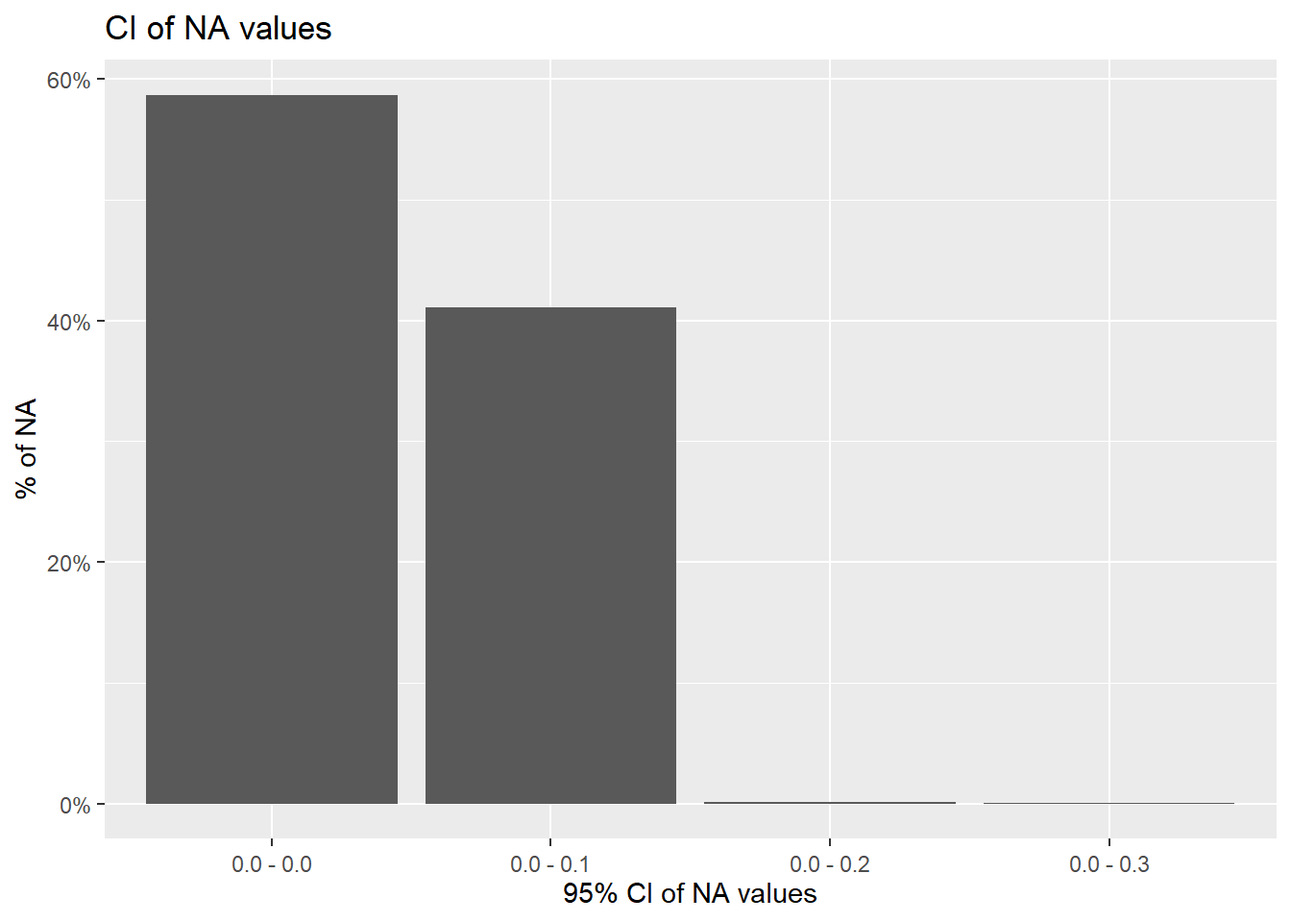
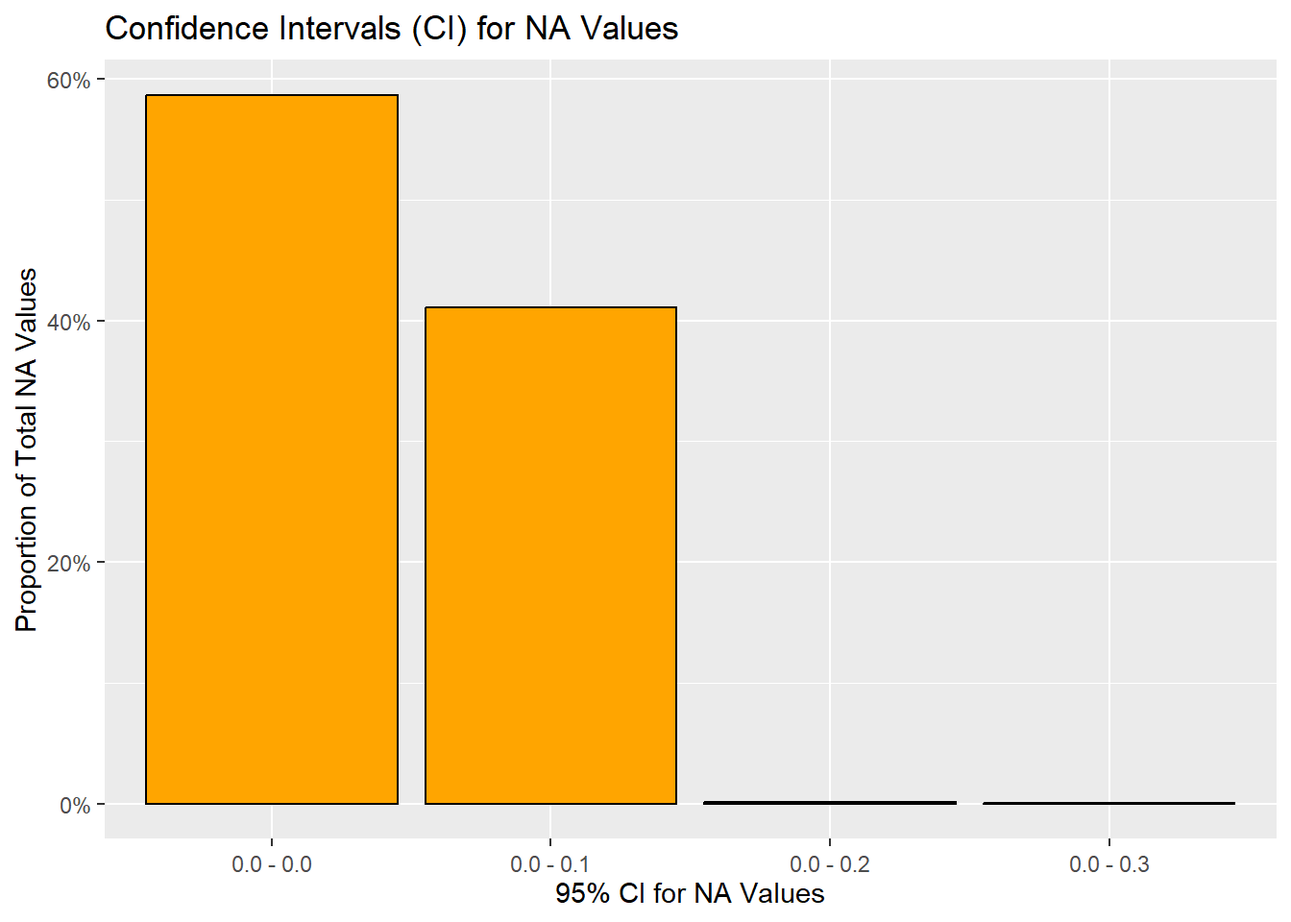
a

diff --git a/docs/data.html b/docs/data.html
@@ -191,8 +191,6 @@ pre > code.sourceCode > span > a:first-child::before { text-decoration: underlin
   <ul class="collapse">
   <li><a href="#explain-in-detail-how-your-data-will-enable-you-to-answer-your-research-questions-from-the-introduction." id="toc-explain-in-detail-how-your-data-will-enable-you-to-answer-your-research-questions-from-the-introduction." class="nav-link" data-scroll-target="#explain-in-detail-how-your-data-will-enable-you-to-answer-your-research-questions-from-the-introduction."><span class="header-section-number">2.2.1</span> Explain in detail how your data will enable you to answer your research questions from the introduction.</a></li>
   <li><a href="#approach" id="toc-approach" class="nav-link" data-scroll-target="#approach"><span class="header-section-number">2.2.2</span> Approach:</a></li>
-  <li><a href="#import-libraries" id="toc-import-libraries" class="nav-link" data-scroll-target="#import-libraries"><span class="header-section-number">2.2.3</span> Import Libraries</a></li>
-  <li><a href="#import-dataset" id="toc-import-dataset" class="nav-link" data-scroll-target="#import-dataset"><span class="header-section-number">2.2.4</span> Import dataset</a></li>
   </ul></li>
   <li><a href="#missing-value-analysis" id="toc-missing-value-analysis" class="nav-link" data-scroll-target="#missing-value-analysis"><span class="header-section-number">2.3</span> 2.3 Missing value analysis</a>
   <ul class="collapse">
@@ -300,17 +298,17 @@ pre > code.sourceCode > span > a:first-child::before { text-decoration: underlin
 <section id="approach" class="level3" data-number="2.2.2">
 <h3 data-number="2.2.2" class="anchored" data-anchor-id="approach"><span class="header-section-number">2.2.2</span> Approach:</h3>
 <p>Our analysis approach can be broken down into the following key activities:</p>
-<p>####Part 1: Study which segments of the population exhibited greatest covid vaccine hesitancy following the deployment of mass vaccinations in the US in early 2021.</p>
+<section id="part-1-study-which-segments-of-the-population-exhibited-greatest-covid-vaccine-hesitancy-following-the-deployment-of-mass-vaccinations-in-the-us-in-early-2021." class="level4" data-number="2.2.2.1">
+<h4 data-number="2.2.2.1" class="anchored" data-anchor-id="part-1-study-which-segments-of-the-population-exhibited-greatest-covid-vaccine-hesitancy-following-the-deployment-of-mass-vaccinations-in-the-us-in-early-2021."><span class="header-section-number">2.2.2.1</span> Part 1: Study which segments of the population exhibited greatest covid vaccine hesitancy following the deployment of mass vaccinations in the US in early 2021.</h4>
 <p>This process will consist of the following steps:</p>
 <ul>
 <li><p>Writing R-code to auto rank every possible segment’s hesitance by statistical significance (i.e.&nbsp;using p-values and test-statistics from Chi-sq tests) at a point in time specified below.</p></li>
 <li><p>Building visuals of the 10 segments with the strongest association to vaccine hesitance to draw additional insights. For this step, we are considering using the following graph types: (x / indpt vars are cat: y / dep vars are numerical (% or n stating “Probably or definitely will not get vaccinated”) o Bars / stacked bars o Mosaic plots o Spatial heatmaps</p></li>
-<li><p>The snapshot in time we will be using to measure associations will comprise the first three monthly periods of data available, where the average proportion of responses corresponding to vaccine hesitance was ~18%. To combine the three monthly periods, we will create a weighted average of the survey responses.</p></li>
+<li><p>The snapshot in time we will be using to measure associations will comprise of the first three monthly periods of data available, where the average proportion of responses corresponding to vaccine hesitance was ~18%. To combine the three monthly periods, we will create a weighted average of the survey responses. For instance, if vaccine hesitance rates for a particular group were 20 out 100 (20%) in month 1, 20/150 (13%) in month 2, and 10/90 (11%) in month 3, the weighted average hesitance rate for that group would be 50/340 (14.7%).</p></li>
 </ul>
-<p>We will visualize the hesitance graph over time to illustrate the rationale behind selecting the first three monthly periods of data due to its stability.</p>
-</section>
-<section id="import-libraries" class="level3" data-number="2.2.3">
-<h3 data-number="2.2.3" class="anchored" data-anchor-id="import-libraries"><span class="header-section-number">2.2.3</span> Import Libraries</h3>
+<p>The rationale for choosing the first three monthly periods of data is due to the prevalence and relative stability of hesitance during that time frame. Below, we will visualize vaccine hesitance over time to illustrate this.</p>
+<section id="import-libraries" class="level5" data-number="2.2.2.1.1">
+<h5 data-number="2.2.2.1.1" class="anchored" data-anchor-id="import-libraries"><span class="header-section-number">2.2.2.1.1</span> Import Libraries</h5>
 <div class="cell">
 <details>
 <summary>Code</summary>
@@ -321,50 +319,63 @@ pre > code.sourceCode > span > a:first-child::before { text-decoration: underlin
 </details>
 </div>
 </section>
-<section id="import-dataset" class="level3" data-number="2.2.4">
-<h3 data-number="2.2.4" class="anchored" data-anchor-id="import-dataset"><span class="header-section-number">2.2.4</span> Import dataset</h3>
+<section id="import-dataset" class="level5" data-number="2.2.2.1.2">
+<h5 data-number="2.2.2.1.2" class="anchored" data-anchor-id="import-dataset"><span class="header-section-number">2.2.2.1.2</span> Import dataset</h5>
 <div class="cell">
 <details>
 <summary>Code</summary>
-<div class="sourceCode cell-code" id="cb2"><pre class="sourceCode r code-with-copy"><code class="sourceCode r"><span id="cb2-1"><a href="#cb2-1" aria-hidden="true" tabindex="-1"></a>covid <span class="ot">&lt;-</span> <span class="fu">fread</span>(<span class="st">"../covid_dataset/covid.csv"</span>)</span></code><button title="Copy to Clipboard" class="code-copy-button"><i class="bi"></i></button></pre></div>
+<div class="sourceCode cell-code" id="cb2"><pre class="sourceCode r code-with-copy"><code class="sourceCode r"><span id="cb2-1"><a href="#cb2-1" aria-hidden="true" tabindex="-1"></a><span class="co"># Load dataset</span></span>
+<span id="cb2-2"><a href="#cb2-2" aria-hidden="true" tabindex="-1"></a>covid <span class="ot">&lt;-</span> <span class="fu">fread</span>(<span class="st">"../covid_dataset/covid.csv"</span>)</span></code><button title="Copy to Clipboard" class="code-copy-button"><i class="bi"></i></button></pre></div>
 </details>
 </div>
+</section>
+<section id="plot-vaccine-hesitance-over-time" class="level5" data-number="2.2.2.1.3">
+<h5 data-number="2.2.2.1.3" class="anchored" data-anchor-id="plot-vaccine-hesitance-over-time"><span class="header-section-number">2.2.2.1.3</span> Plot vaccine hesitance over time</h5>
 <div class="cell">
 <details>
 <summary>Code</summary>
-<div class="sourceCode cell-code" id="cb3"><pre class="sourceCode r code-with-copy"><code class="sourceCode r"><span id="cb3-1"><a href="#cb3-1" aria-hidden="true" tabindex="-1"></a>vacc_intention_time <span class="ot">&lt;-</span> covid <span class="sc">|&gt;</span></span>
-<span id="cb3-2"><a href="#cb3-2" aria-hidden="true" tabindex="-1"></a>  <span class="fu">filter</span>(<span class="st">`</span><span class="at">Indicator Name</span><span class="st">`</span> <span class="sc">==</span> <span class="st">'Vaccination uptake and intention'</span>) <span class="sc">|&gt;</span></span>
-<span id="cb3-3"><a href="#cb3-3" aria-hidden="true" tabindex="-1"></a>  <span class="fu">filter</span>(<span class="st">`</span><span class="at">Indicator Category</span><span class="st">`</span> <span class="sc">==</span> <span class="st">'Probably or definitely will not get vaccinated'</span>) <span class="sc">|&gt;</span></span>
-<span id="cb3-4"><a href="#cb3-4" aria-hidden="true" tabindex="-1"></a>  <span class="fu">filter</span>(<span class="st">`</span><span class="at">Group Name</span><span class="st">`</span> <span class="sc">==</span> <span class="st">'All adults 18+'</span>) <span class="sc">|&gt;</span></span>
-<span id="cb3-5"><a href="#cb3-5" aria-hidden="true" tabindex="-1"></a>  <span class="fu">filter</span>(<span class="st">`</span><span class="at">Time Type</span><span class="st">`</span> <span class="sc">==</span> <span class="st">'Monthly'</span>) <span class="sc">|&gt;</span></span>
-<span id="cb3-6"><a href="#cb3-6" aria-hidden="true" tabindex="-1"></a>  <span class="fu">filter</span>(Geography <span class="sc">==</span> <span class="st">'National'</span>) <span class="sc">|&gt;</span></span>
-<span id="cb3-7"><a href="#cb3-7" aria-hidden="true" tabindex="-1"></a>  <span class="fu">arrange</span>(<span class="st">`</span><span class="at">Geography Type</span><span class="st">`</span>, Geography, <span class="st">`</span><span class="at">Time Period</span><span class="st">`</span>)</span>
-<span id="cb3-8"><a href="#cb3-8" aria-hidden="true" tabindex="-1"></a></span>
-<span id="cb3-9"><a href="#cb3-9" aria-hidden="true" tabindex="-1"></a></span>
-<span id="cb3-10"><a href="#cb3-10" aria-hidden="true" tabindex="-1"></a>vacc_intention_time <span class="ot">&lt;-</span> vacc_intention_time <span class="sc">|&gt;</span></span>
-<span id="cb3-11"><a href="#cb3-11" aria-hidden="true" tabindex="-1"></a>  <span class="fu">mutate</span>(<span class="at">month_split =</span> <span class="fu">paste0</span>(<span class="fu">str_split</span>(<span class="st">`</span><span class="at">Time Period</span><span class="st">`</span>, <span class="st">"-"</span>,</span>
-<span id="cb3-12"><a href="#cb3-12" aria-hidden="true" tabindex="-1"></a>                                        <span class="at">simplify =</span> <span class="cn">TRUE</span>)[, <span class="dv">2</span>],</span>
-<span id="cb3-13"><a href="#cb3-13" aria-hidden="true" tabindex="-1"></a>         <span class="st">", "</span>, Year))</span>
-<span id="cb3-14"><a href="#cb3-14" aria-hidden="true" tabindex="-1"></a></span>
-<span id="cb3-15"><a href="#cb3-15" aria-hidden="true" tabindex="-1"></a>vacc_intention_time <span class="ot">&lt;-</span> vacc_intention_time <span class="sc">|&gt;</span></span>
-<span id="cb3-16"><a href="#cb3-16" aria-hidden="true" tabindex="-1"></a>  <span class="fu">mutate</span>(<span class="at">month =</span> <span class="fu">mdy</span>(month_split))</span>
-<span id="cb3-17"><a href="#cb3-17" aria-hidden="true" tabindex="-1"></a></span>
-<span id="cb3-18"><a href="#cb3-18" aria-hidden="true" tabindex="-1"></a></span>
-<span id="cb3-19"><a href="#cb3-19" aria-hidden="true" tabindex="-1"></a><span class="fu">ggplot</span>(vacc_intention_time, <span class="fu">aes</span>(<span class="at">x =</span> month, <span class="at">y =</span> <span class="st">`</span><span class="at">Estimate (%)</span><span class="st">`</span>,</span>
-<span id="cb3-20"><a href="#cb3-20" aria-hidden="true" tabindex="-1"></a>                                <span class="at">color =</span> <span class="st">`</span><span class="at">Indicator Category</span><span class="st">`</span>)) <span class="sc">+</span></span>
-<span id="cb3-21"><a href="#cb3-21" aria-hidden="true" tabindex="-1"></a>  <span class="fu">geom_line</span>() <span class="sc">+</span></span>
-<span id="cb3-22"><a href="#cb3-22" aria-hidden="true" tabindex="-1"></a>  <span class="fu">labs</span>(<span class="at">title =</span> <span class="st">"U.S. Vaccination Response Rates Over Time"</span>,</span>
-<span id="cb3-23"><a href="#cb3-23" aria-hidden="true" tabindex="-1"></a>       <span class="at">x =</span> <span class="st">"Month"</span>,</span>
-<span id="cb3-24"><a href="#cb3-24" aria-hidden="true" tabindex="-1"></a>       <span class="at">y =</span> <span class="st">"Response Rate (%)"</span>) <span class="sc">+</span></span>
-<span id="cb3-25"><a href="#cb3-25" aria-hidden="true" tabindex="-1"></a>  <span class="fu">theme</span>(<span class="at">legend.position =</span> <span class="st">"bottom"</span>) <span class="sc">+</span></span>
-<span id="cb3-26"><a href="#cb3-26" aria-hidden="true" tabindex="-1"></a>  <span class="fu">guides</span>(<span class="at">color =</span> <span class="fu">guide_legend</span>(<span class="at">title =</span> <span class="st">"Indicator Category:"</span>))</span></code><button title="Copy to Clipboard" class="code-copy-button"><i class="bi"></i></button></pre></div>
+<div class="sourceCode cell-code" id="cb3"><pre class="sourceCode r code-with-copy"><code class="sourceCode r"><span id="cb3-1"><a href="#cb3-1" aria-hidden="true" tabindex="-1"></a><span class="co"># Filter for the vaccination uptake and intent indicator</span></span>
+<span id="cb3-2"><a href="#cb3-2" aria-hidden="true" tabindex="-1"></a><span class="co"># Filter for responses corresponding to vaccine hesitancy</span></span>
+<span id="cb3-3"><a href="#cb3-3" aria-hidden="true" tabindex="-1"></a><span class="co"># Include all adults 18+</span></span>
+<span id="cb3-4"><a href="#cb3-4" aria-hidden="true" tabindex="-1"></a><span class="co"># Set time period to monthly (excluding weekly samples) and filter for nationwide samples</span></span>
+<span id="cb3-5"><a href="#cb3-5" aria-hidden="true" tabindex="-1"></a>vacc_intention_time <span class="ot">&lt;-</span> covid <span class="sc">|&gt;</span></span>
+<span id="cb3-6"><a href="#cb3-6" aria-hidden="true" tabindex="-1"></a>  <span class="fu">filter</span>(<span class="st">`</span><span class="at">Indicator Name</span><span class="st">`</span> <span class="sc">==</span> <span class="st">'Vaccination uptake and intention'</span>) <span class="sc">|&gt;</span></span>
+<span id="cb3-7"><a href="#cb3-7" aria-hidden="true" tabindex="-1"></a>  <span class="fu">filter</span>(<span class="st">`</span><span class="at">Indicator Category</span><span class="st">`</span> <span class="sc">==</span> <span class="st">'Probably or definitely will not get vaccinated'</span>) <span class="sc">|&gt;</span></span>
+<span id="cb3-8"><a href="#cb3-8" aria-hidden="true" tabindex="-1"></a>  <span class="fu">filter</span>(<span class="st">`</span><span class="at">Group Name</span><span class="st">`</span> <span class="sc">==</span> <span class="st">'All adults 18+'</span>) <span class="sc">|&gt;</span></span>
+<span id="cb3-9"><a href="#cb3-9" aria-hidden="true" tabindex="-1"></a>  <span class="fu">filter</span>(<span class="st">`</span><span class="at">Time Type</span><span class="st">`</span> <span class="sc">==</span> <span class="st">'Monthly'</span>) <span class="sc">|&gt;</span></span>
+<span id="cb3-10"><a href="#cb3-10" aria-hidden="true" tabindex="-1"></a>  <span class="fu">filter</span>(Geography <span class="sc">==</span> <span class="st">'National'</span>) <span class="sc">|&gt;</span></span>
+<span id="cb3-11"><a href="#cb3-11" aria-hidden="true" tabindex="-1"></a>  <span class="fu">arrange</span>(<span class="st">`</span><span class="at">Geography Type</span><span class="st">`</span>, Geography, <span class="st">`</span><span class="at">Time Period</span><span class="st">`</span>)</span>
+<span id="cb3-12"><a href="#cb3-12" aria-hidden="true" tabindex="-1"></a></span>
+<span id="cb3-13"><a href="#cb3-13" aria-hidden="true" tabindex="-1"></a><span class="co"># Derive month of data collection</span></span>
+<span id="cb3-14"><a href="#cb3-14" aria-hidden="true" tabindex="-1"></a>vacc_intention_time <span class="ot">&lt;-</span> vacc_intention_time <span class="sc">|&gt;</span></span>
+<span id="cb3-15"><a href="#cb3-15" aria-hidden="true" tabindex="-1"></a>  <span class="fu">mutate</span>(<span class="at">month_split =</span> <span class="fu">paste0</span>(<span class="fu">str_split</span>(<span class="st">`</span><span class="at">Time Period</span><span class="st">`</span>, <span class="st">"-"</span>,</span>
+<span id="cb3-16"><a href="#cb3-16" aria-hidden="true" tabindex="-1"></a>                                        <span class="at">simplify =</span> <span class="cn">TRUE</span>)[, <span class="dv">2</span>],</span>
+<span id="cb3-17"><a href="#cb3-17" aria-hidden="true" tabindex="-1"></a>         <span class="st">", "</span>, Year),</span>
+<span id="cb3-18"><a href="#cb3-18" aria-hidden="true" tabindex="-1"></a>         <span class="at">month =</span> <span class="fu">mdy</span>(month_split))</span>
+<span id="cb3-19"><a href="#cb3-19" aria-hidden="true" tabindex="-1"></a></span>
+<span id="cb3-20"><a href="#cb3-20" aria-hidden="true" tabindex="-1"></a><span class="co"># Plot hesitancy over time</span></span>
+<span id="cb3-21"><a href="#cb3-21" aria-hidden="true" tabindex="-1"></a><span class="fu">ggplot</span>(vacc_intention_time, <span class="fu">aes</span>(<span class="at">x =</span> month, <span class="at">y =</span> <span class="st">`</span><span class="at">Estimate (%)</span><span class="st">`</span>,</span>
+<span id="cb3-22"><a href="#cb3-22" aria-hidden="true" tabindex="-1"></a>                                <span class="at">color =</span> <span class="st">`</span><span class="at">Indicator Category</span><span class="st">`</span>)) <span class="sc">+</span></span>
+<span id="cb3-23"><a href="#cb3-23" aria-hidden="true" tabindex="-1"></a>  <span class="fu">geom_line</span>() <span class="sc">+</span></span>
+<span id="cb3-24"><a href="#cb3-24" aria-hidden="true" tabindex="-1"></a>  <span class="fu">labs</span>(<span class="at">title =</span> <span class="st">"U.S. Vaccination Response Rates Over Time"</span>,</span>
+<span id="cb3-25"><a href="#cb3-25" aria-hidden="true" tabindex="-1"></a>       <span class="at">x =</span> <span class="st">"Month"</span>,</span>
+<span id="cb3-26"><a href="#cb3-26" aria-hidden="true" tabindex="-1"></a>       <span class="at">y =</span> <span class="st">"Response Rate (%)"</span>) <span class="sc">+</span></span>
+<span id="cb3-27"><a href="#cb3-27" aria-hidden="true" tabindex="-1"></a>  <span class="fu">theme</span>(<span class="at">legend.position =</span> <span class="st">"bottom"</span>) <span class="sc">+</span></span>
+<span id="cb3-28"><a href="#cb3-28" aria-hidden="true" tabindex="-1"></a>  <span class="fu">guides</span>(<span class="at">color =</span> <span class="fu">guide_legend</span>(<span class="at">title =</span> <span class="st">"Indicator Category:"</span>))</span></code><button title="Copy to Clipboard" class="code-copy-button"><i class="bi"></i></button></pre></div>
 </details>
 <div class="cell-output-display">
 <p><img src="data_files/figure-html/unnamed-chunk-3-1.png" class="img-fluid" width="672"></p>
 </div>
 </div>
-<p>####Part 2: Analyse which segments showed the greatest reduction in covid vaccine hesitancy between 2021 and 2023 We will analyse which segments showed the greatest reduction in COVID vaccine hesitancy between 2021 and 2023. To perform this step, we will leverage several visuals that can provide insights into trends of hesitancy over time: - Cleveland dot plot - plot or annual snapshot of change in variable(s) of interest over time - Geographic heatmap (colours = changes) - Bar chart</p>
-<p>####Part 3: Based on the findings above, we will propose high-level recommendations for segments of the population that need further public health interventions.</p>
+</section>
+</section>
+<section id="part-2-analyze-which-segments-showed-the-greatest-reduction-in-covid-vaccine-hesitancy-between-2021-and-2023" class="level4" data-number="2.2.2.2">
+<h4 data-number="2.2.2.2" class="anchored" data-anchor-id="part-2-analyze-which-segments-showed-the-greatest-reduction-in-covid-vaccine-hesitancy-between-2021-and-2023"><span class="header-section-number">2.2.2.2</span> Part 2: Analyze which segments showed the greatest reduction in covid vaccine hesitancy between 2021 and 2023</h4>
+<p>We will analyse which segments showed the greatest reduction in COVID vaccine hesitancy between 2021 and 2023. To perform this step, we will leverage several visuals that can provide insights into trends of hesitancy over time: - Cleveland dot plot - plot or annual snapshot of change in variable(s) of interest over time - Geographic heatmap (colours = changes) - Bar chart</p>
+</section>
+<section id="part-3-based-on-the-findings-above-we-will-propose-high-level-recommendations-for-segments-of-the-population-that-need-further-public-health-interventions." class="level4" data-number="2.2.2.3">
+<h4 data-number="2.2.2.3" class="anchored" data-anchor-id="part-3-based-on-the-findings-above-we-will-propose-high-level-recommendations-for-segments-of-the-population-that-need-further-public-health-interventions."><span class="header-section-number">2.2.2.3</span> Part 3: Based on the findings above, we will propose high-level recommendations for segments of the population that need further public health interventions.</h4>
+</section>
 </section>
 </section>
 <section id="missing-value-analysis" class="level2" data-number="2.3">
@@ -374,45 +385,50 @@ pre > code.sourceCode > span > a:first-child::before { text-decoration: underlin
 <div class="cell">
 <details>
 <summary>Code</summary>
-<div class="sourceCode cell-code" id="cb4"><pre class="sourceCode r code-with-copy"><code class="sourceCode r"><span id="cb4-1"><a href="#cb4-1" aria-hidden="true" tabindex="-1"></a>missing_vals_matrix <span class="ot">&lt;-</span> <span class="fu">is.na</span>(<span class="fu">as.data.frame</span>(covid))</span>
-<span id="cb4-2"><a href="#cb4-2" aria-hidden="true" tabindex="-1"></a></span>
-<span id="cb4-3"><a href="#cb4-3" aria-hidden="true" tabindex="-1"></a>missing_col_count <span class="ot">&lt;-</span> <span class="fu">colSums</span>(missing_vals_matrix)</span>
-<span id="cb4-4"><a href="#cb4-4" aria-hidden="true" tabindex="-1"></a></span>
-<span id="cb4-5"><a href="#cb4-5" aria-hidden="true" tabindex="-1"></a><span class="co"># Create a data frame with column names and NA counts</span></span>
-<span id="cb4-6"><a href="#cb4-6" aria-hidden="true" tabindex="-1"></a>missing_vals_count_df <span class="ot">&lt;-</span> <span class="fu">data.frame</span>(<span class="at">Column =</span> <span class="fu">names</span>(missing_col_count),</span>
-<span id="cb4-7"><a href="#cb4-7" aria-hidden="true" tabindex="-1"></a>                     <span class="at">NA_Count =</span> missing_col_count)</span>
-<span id="cb4-8"><a href="#cb4-8" aria-hidden="true" tabindex="-1"></a></span>
-<span id="cb4-9"><a href="#cb4-9" aria-hidden="true" tabindex="-1"></a><span class="co"># All NAs are in the Estimate % column</span></span>
-<span id="cb4-10"><a href="#cb4-10" aria-hidden="true" tabindex="-1"></a><span class="fu">ggplot</span>(missing_vals_count_df,</span>
-<span id="cb4-11"><a href="#cb4-11" aria-hidden="true" tabindex="-1"></a>       <span class="fu">aes</span>(<span class="at">x =</span> NA_Count, <span class="at">y =</span> <span class="fu">reorder</span>(Column, NA_Count))) <span class="sc">+</span></span>
-<span id="cb4-12"><a href="#cb4-12" aria-hidden="true" tabindex="-1"></a>  <span class="fu">geom_bar</span>(<span class="at">stat =</span> <span class="st">"identity"</span>, <span class="at">fill =</span> <span class="st">"cornflowerblue"</span>) <span class="sc">+</span></span>
-<span id="cb4-13"><a href="#cb4-13" aria-hidden="true" tabindex="-1"></a>  <span class="fu">labs</span>(<span class="at">title =</span> <span class="st">"Missing Values by Column"</span>,</span>
-<span id="cb4-14"><a href="#cb4-14" aria-hidden="true" tabindex="-1"></a>       <span class="at">x =</span> <span class="st">"Count of NAs"</span>,</span>
-<span id="cb4-15"><a href="#cb4-15" aria-hidden="true" tabindex="-1"></a>       <span class="at">y =</span> <span class="st">"Dataset Attributes"</span>) <span class="sc">+</span></span>
-<span id="cb4-16"><a href="#cb4-16" aria-hidden="true" tabindex="-1"></a>  <span class="fu">theme_bw</span>()</span></code><button title="Copy to Clipboard" class="code-copy-button"><i class="bi"></i></button></pre></div>
+<div class="sourceCode cell-code" id="cb4"><pre class="sourceCode r code-with-copy"><code class="sourceCode r"><span id="cb4-1"><a href="#cb4-1" aria-hidden="true" tabindex="-1"></a><span class="co"># Flag whether a data point is NA</span></span>
+<span id="cb4-2"><a href="#cb4-2" aria-hidden="true" tabindex="-1"></a>missing_vals_matrix <span class="ot">&lt;-</span> <span class="fu">is.na</span>(<span class="fu">as.data.frame</span>(covid))</span>
+<span id="cb4-3"><a href="#cb4-3" aria-hidden="true" tabindex="-1"></a></span>
+<span id="cb4-4"><a href="#cb4-4" aria-hidden="true" tabindex="-1"></a><span class="co"># Count NAs per column</span></span>
+<span id="cb4-5"><a href="#cb4-5" aria-hidden="true" tabindex="-1"></a>missing_col_count <span class="ot">&lt;-</span> <span class="fu">colSums</span>(missing_vals_matrix)</span>
+<span id="cb4-6"><a href="#cb4-6" aria-hidden="true" tabindex="-1"></a></span>
+<span id="cb4-7"><a href="#cb4-7" aria-hidden="true" tabindex="-1"></a><span class="co"># Create a data frame with column names and NA counts</span></span>
+<span id="cb4-8"><a href="#cb4-8" aria-hidden="true" tabindex="-1"></a>missing_vals_count_df <span class="ot">&lt;-</span> <span class="fu">data.frame</span>(<span class="at">Column =</span> <span class="fu">names</span>(missing_col_count),</span>
+<span id="cb4-9"><a href="#cb4-9" aria-hidden="true" tabindex="-1"></a>                     <span class="at">NA_Count =</span> missing_col_count)</span>
+<span id="cb4-10"><a href="#cb4-10" aria-hidden="true" tabindex="-1"></a></span>
+<span id="cb4-11"><a href="#cb4-11" aria-hidden="true" tabindex="-1"></a><span class="co"># Plot NA counts per column</span></span>
+<span id="cb4-12"><a href="#cb4-12" aria-hidden="true" tabindex="-1"></a><span class="co"># All NAs are in the Estimate (%) column</span></span>
+<span id="cb4-13"><a href="#cb4-13" aria-hidden="true" tabindex="-1"></a><span class="fu">ggplot</span>(missing_vals_count_df,</span>
+<span id="cb4-14"><a href="#cb4-14" aria-hidden="true" tabindex="-1"></a>       <span class="fu">aes</span>(<span class="at">x =</span> NA_Count, <span class="at">y =</span> <span class="fu">reorder</span>(Column, NA_Count))) <span class="sc">+</span></span>
+<span id="cb4-15"><a href="#cb4-15" aria-hidden="true" tabindex="-1"></a>  <span class="fu">geom_bar</span>(<span class="at">stat =</span> <span class="st">"identity"</span>, <span class="at">fill =</span> <span class="st">"cornflowerblue"</span>) <span class="sc">+</span></span>
+<span id="cb4-16"><a href="#cb4-16" aria-hidden="true" tabindex="-1"></a>  <span class="fu">labs</span>(<span class="at">title =</span> <span class="st">"Missing Values by Column"</span>,</span>
+<span id="cb4-17"><a href="#cb4-17" aria-hidden="true" tabindex="-1"></a>       <span class="at">x =</span> <span class="st">"Count of NAs"</span>,</span>
+<span id="cb4-18"><a href="#cb4-18" aria-hidden="true" tabindex="-1"></a>       <span class="at">y =</span> <span class="st">"Dataset Attributes"</span>) <span class="sc">+</span></span>
+<span id="cb4-19"><a href="#cb4-19" aria-hidden="true" tabindex="-1"></a>  <span class="fu">theme_bw</span>()</span></code><button title="Copy to Clipboard" class="code-copy-button"><i class="bi"></i></button></pre></div>
 </details>
 <div class="cell-output-display">
 <p><img src="data_files/figure-html/unnamed-chunk-4-1.png" class="img-fluid" width="672"></p>
 </div>
 <details>
 <summary>Code</summary>
-<div class="sourceCode cell-code" id="cb5"><pre class="sourceCode r code-with-copy"><code class="sourceCode r"><span id="cb5-1"><a href="#cb5-1" aria-hidden="true" tabindex="-1"></a><span class="co">#To understand the NAs further, we made 3 observations which strongly indicates NA are in fact zero:</span></span>
-<span id="cb5-2"><a href="#cb5-2" aria-hidden="true" tabindex="-1"></a><span class="co">#Observation 1: All NAs have a valid 95% confidence interval of between 0-0 to 0-0.3.</span></span>
-<span id="cb5-3"><a href="#cb5-3" aria-hidden="true" tabindex="-1"></a></span>
-<span id="cb5-4"><a href="#cb5-4" aria-hidden="true" tabindex="-1"></a>covid <span class="sc">|&gt;</span>  <span class="fu">filter</span>(<span class="fu">is.na</span>(<span class="st">`</span><span class="at">Estimate (%)</span><span class="st">`</span>)) <span class="sc">|&gt;</span> <span class="fu">ggplot</span>(<span class="fu">aes</span>(<span class="at">x =</span> <span class="st">`</span><span class="at">95% CI (%)</span><span class="st">`</span>)) <span class="sc">+</span></span>
-<span id="cb5-5"><a href="#cb5-5" aria-hidden="true" tabindex="-1"></a>  <span class="fu">geom_bar</span>(<span class="fu">aes</span>(<span class="at">y =</span> (..count..)<span class="sc">/</span><span class="fu">sum</span>(..count..))) <span class="sc">+</span></span>
-<span id="cb5-6"><a href="#cb5-6" aria-hidden="true" tabindex="-1"></a>  <span class="fu">labs</span>(<span class="at">title =</span> <span class="st">"CI of NA values"</span>,</span>
-<span id="cb5-7"><a href="#cb5-7" aria-hidden="true" tabindex="-1"></a>       <span class="at">x =</span> <span class="st">"95% CI of NA values"</span>,</span>
-<span id="cb5-8"><a href="#cb5-8" aria-hidden="true" tabindex="-1"></a>       <span class="at">y =</span> <span class="st">"% of NA"</span>) <span class="sc">+</span></span>
-<span id="cb5-9"><a href="#cb5-9" aria-hidden="true" tabindex="-1"></a>  <span class="fu">theme</span>(<span class="at">axis.text.x =</span> <span class="fu">element_text</span>(<span class="at">angle =</span> <span class="dv">0</span>, <span class="at">vjust =</span> <span class="fl">0.5</span>, <span class="at">hjust=</span><span class="fl">0.5</span>))<span class="sc">+</span></span>
-<span id="cb5-10"><a href="#cb5-10" aria-hidden="true" tabindex="-1"></a>  <span class="fu">scale_y_continuous</span>(<span class="at">labels =</span> scales<span class="sc">::</span>percent)</span></code><button title="Copy to Clipboard" class="code-copy-button"><i class="bi"></i></button></pre></div>
+<div class="sourceCode cell-code" id="cb5"><pre class="sourceCode r code-with-copy"><code class="sourceCode r"><span id="cb5-1"><a href="#cb5-1" aria-hidden="true" tabindex="-1"></a><span class="co"># To understand the NAs further, we made 3 observations which strongly indicates NA are in fact zero:</span></span>
+<span id="cb5-2"><a href="#cb5-2" aria-hidden="true" tabindex="-1"></a></span>
+<span id="cb5-3"><a href="#cb5-3" aria-hidden="true" tabindex="-1"></a><span class="co"># Observation 1: All NAs have a valid 95% confidence interval of between 0-0 to 0-0.3.</span></span>
+<span id="cb5-4"><a href="#cb5-4" aria-hidden="true" tabindex="-1"></a></span>
+<span id="cb5-5"><a href="#cb5-5" aria-hidden="true" tabindex="-1"></a>covid <span class="sc">|&gt;</span> <span class="fu">filter</span>(<span class="fu">is.na</span>(<span class="st">`</span><span class="at">Estimate (%)</span><span class="st">`</span>)) <span class="sc">|&gt;</span></span>
+<span id="cb5-6"><a href="#cb5-6" aria-hidden="true" tabindex="-1"></a>  <span class="fu">ggplot</span>(<span class="fu">aes</span>(<span class="at">x =</span> <span class="st">`</span><span class="at">95% CI (%)</span><span class="st">`</span>)) <span class="sc">+</span></span>
+<span id="cb5-7"><a href="#cb5-7" aria-hidden="true" tabindex="-1"></a>  <span class="fu">geom_bar</span>(<span class="fu">aes</span>(<span class="at">y =</span> (..count..)<span class="sc">/</span><span class="fu">sum</span>(..count..)), <span class="at">color =</span> <span class="st">"black"</span>, <span class="at">fill =</span> <span class="st">"orange"</span>) <span class="sc">+</span></span>
+<span id="cb5-8"><a href="#cb5-8" aria-hidden="true" tabindex="-1"></a>  <span class="fu">labs</span>(<span class="at">title =</span> <span class="st">"Confidence Intervals (CI) for NA Values"</span>,</span>
+<span id="cb5-9"><a href="#cb5-9" aria-hidden="true" tabindex="-1"></a>       <span class="at">x =</span> <span class="st">"95% CI for NA Values"</span>,</span>
+<span id="cb5-10"><a href="#cb5-10" aria-hidden="true" tabindex="-1"></a>       <span class="at">y =</span> <span class="st">"Proportion of Total NA Values"</span>) <span class="sc">+</span></span>
+<span id="cb5-11"><a href="#cb5-11" aria-hidden="true" tabindex="-1"></a>  <span class="fu">theme</span>(<span class="at">axis.text.x =</span> <span class="fu">element_text</span>(<span class="at">angle =</span> <span class="dv">0</span>, <span class="at">vjust =</span> <span class="fl">0.5</span>, <span class="at">hjust=</span><span class="fl">0.5</span>))<span class="sc">+</span></span>
+<span id="cb5-12"><a href="#cb5-12" aria-hidden="true" tabindex="-1"></a>  <span class="fu">scale_y_continuous</span>(<span class="at">labels =</span> scales<span class="sc">::</span>percent)</span></code><button title="Copy to Clipboard" class="code-copy-button"><i class="bi"></i></button></pre></div>
 </details>
 <div class="cell-output-display">
 <p><img src="data_files/figure-html/unnamed-chunk-4-2.png" class="img-fluid" width="672"></p>
 </div>
 <details>
 <summary>Code</summary>
-<div class="sourceCode cell-code" id="cb6"><pre class="sourceCode r code-with-copy"><code class="sourceCode r"><span id="cb6-1"><a href="#cb6-1" aria-hidden="true" tabindex="-1"></a><span class="co">#Observation 2: Estimate (%) is rounded to 1dp, and the lowest possible non-NA value is 0.1</span></span>
+<div class="sourceCode cell-code" id="cb6"><pre class="sourceCode r code-with-copy"><code class="sourceCode r"><span id="cb6-1"><a href="#cb6-1" aria-hidden="true" tabindex="-1"></a><span class="co"># Observation 2: Estimate (%) is rounded to 1 decimal point, and the lowest possible non-NA value is 0.1</span></span>
 <span id="cb6-2"><a href="#cb6-2" aria-hidden="true" tabindex="-1"></a>covid <span class="sc">|&gt;</span> <span class="fu">group_by</span>(<span class="st">`</span><span class="at">Estimate (%)</span><span class="st">`</span>) <span class="sc">|&gt;</span>  <span class="fu">summarize</span>(<span class="at">count =</span> <span class="fu">n</span>())  <span class="sc">|&gt;</span> <span class="fu">filter</span>(<span class="st">`</span><span class="at">Estimate (%)</span><span class="st">`</span><span class="sc">&lt;=</span><span class="fl">0.2</span> <span class="sc">|</span> <span class="fu">is.na</span>(<span class="st">`</span><span class="at">Estimate (%)</span><span class="st">`</span>)) <span class="sc">|&gt;</span> <span class="fu">arrange</span>(<span class="fu">desc</span>(<span class="st">`</span><span class="at">Estimate (%)</span><span class="st">`</span>))</span></code><button title="Copy to Clipboard" class="code-copy-button"><i class="bi"></i></button></pre></div>
 </details>
 <div class="cell-output cell-output-stdout">
@@ -425,16 +441,21 @@ pre > code.sourceCode > span > a:first-child::before { text-decoration: underlin
 </div>
 <details>
 <summary>Code</summary>
-<div class="sourceCode cell-code" id="cb8"><pre class="sourceCode r code-with-copy"><code class="sourceCode r"><span id="cb8-1"><a href="#cb8-1" aria-hidden="true" tabindex="-1"></a><span class="co">#Observation 3: Sense checks on subsets of the data where NAs are present are coherent, with a valid sample size, and the non-NA Estimate (%) summing up to 100</span></span>
-<span id="cb8-2"><a href="#cb8-2" aria-hidden="true" tabindex="-1"></a>NA_is_zero_proof1 <span class="ot">&lt;-</span> covid <span class="sc">|&gt;</span> <span class="fu">filter</span>(Geography<span class="sc">==</span><span class="st">"Wisconsin"</span>,<span class="st">`</span><span class="at">Time Period</span><span class="st">`</span> <span class="sc">==</span> <span class="st">"April 22 - May 29"</span>,Year<span class="sc">==</span><span class="dv">2021</span>,<span class="st">`</span><span class="at">Group Name</span><span class="st">`</span><span class="sc">==</span><span class="st">"Age"</span>,<span class="st">`</span><span class="at">Indicator Name</span><span class="st">`</span> <span class="sc">==</span> <span class="st">"Vaccination uptake and intention"</span>, <span class="st">`</span><span class="at">Group Category</span><span class="st">`</span> <span class="sc">==</span> <span class="st">"65+ years"</span>) <span class="sc">|&gt;</span> <span class="fu">select</span>(<span class="st">`</span><span class="at">Group Category</span><span class="st">`</span>,<span class="st">`</span><span class="at">Indicator Category</span><span class="st">`</span>,<span class="st">`</span><span class="at">Estimate (%)</span><span class="st">`</span>, <span class="st">`</span><span class="at">Sample Size</span><span class="st">`</span>,<span class="st">`</span><span class="at">95% CI (%)</span><span class="st">`</span>)</span>
-<span id="cb8-3"><a href="#cb8-3" aria-hidden="true" tabindex="-1"></a></span>
-<span id="cb8-4"><a href="#cb8-4" aria-hidden="true" tabindex="-1"></a>covid_clean <span class="ot">&lt;-</span> covid</span>
-<span id="cb8-5"><a href="#cb8-5" aria-hidden="true" tabindex="-1"></a></span>
-<span id="cb8-6"><a href="#cb8-6" aria-hidden="true" tabindex="-1"></a><span class="co">#Therefore, we will impute NAs as zeros</span></span>
-<span id="cb8-7"><a href="#cb8-7" aria-hidden="true" tabindex="-1"></a>covid_clean[<span class="fu">is.na</span>(covid_clean)] <span class="ot">=</span> <span class="dv">0</span></span>
-<span id="cb8-8"><a href="#cb8-8" aria-hidden="true" tabindex="-1"></a></span>
-<span id="cb8-9"><a href="#cb8-9" aria-hidden="true" tabindex="-1"></a><span class="co">#Check: This does remove all NAs</span></span>
-<span id="cb8-10"><a href="#cb8-10" aria-hidden="true" tabindex="-1"></a><span class="fu">colSums</span>(<span class="fu">is.na</span>(covid_clean))</span></code><button title="Copy to Clipboard" class="code-copy-button"><i class="bi"></i></button></pre></div>
+<div class="sourceCode cell-code" id="cb8"><pre class="sourceCode r code-with-copy"><code class="sourceCode r"><span id="cb8-1"><a href="#cb8-1" aria-hidden="true" tabindex="-1"></a><span class="co"># Observation 3: Sense checks on subsets of the data where NAs are present are coherent, with a valid sample size, and the non-NA Estimate (%) summing up to 100</span></span>
+<span id="cb8-2"><a href="#cb8-2" aria-hidden="true" tabindex="-1"></a>NA_is_zero_proof1 <span class="ot">&lt;-</span> covid <span class="sc">|&gt;</span></span>
+<span id="cb8-3"><a href="#cb8-3" aria-hidden="true" tabindex="-1"></a>  <span class="fu">filter</span>(Geography<span class="sc">==</span><span class="st">"Wisconsin"</span>, <span class="st">`</span><span class="at">Time Period</span><span class="st">`</span> <span class="sc">==</span> <span class="st">"April 22 - May 29"</span>,</span>
+<span id="cb8-4"><a href="#cb8-4" aria-hidden="true" tabindex="-1"></a>         Year<span class="sc">==</span><span class="dv">2021</span>, <span class="st">`</span><span class="at">Group Name</span><span class="st">`</span><span class="sc">==</span><span class="st">"Age"</span>,</span>
+<span id="cb8-5"><a href="#cb8-5" aria-hidden="true" tabindex="-1"></a>         <span class="st">`</span><span class="at">Indicator Name</span><span class="st">`</span> <span class="sc">==</span> <span class="st">"Vaccination uptake and intention"</span>,</span>
+<span id="cb8-6"><a href="#cb8-6" aria-hidden="true" tabindex="-1"></a>         <span class="st">`</span><span class="at">Group Category</span><span class="st">`</span> <span class="sc">==</span> <span class="st">"65+ years"</span>) <span class="sc">|&gt;</span></span>
+<span id="cb8-7"><a href="#cb8-7" aria-hidden="true" tabindex="-1"></a>  <span class="fu">select</span>(<span class="st">`</span><span class="at">Group Category</span><span class="st">`</span>,<span class="st">`</span><span class="at">Indicator Category</span><span class="st">`</span>,<span class="st">`</span><span class="at">Estimate (%)</span><span class="st">`</span>,</span>
+<span id="cb8-8"><a href="#cb8-8" aria-hidden="true" tabindex="-1"></a>         <span class="st">`</span><span class="at">Sample Size</span><span class="st">`</span>,<span class="st">`</span><span class="at">95% CI (%)</span><span class="st">`</span>)</span>
+<span id="cb8-9"><a href="#cb8-9" aria-hidden="true" tabindex="-1"></a></span>
+<span id="cb8-10"><a href="#cb8-10" aria-hidden="true" tabindex="-1"></a></span>
+<span id="cb8-11"><a href="#cb8-11" aria-hidden="true" tabindex="-1"></a><span class="co"># Therefore, we will impute NAs as zeros </span></span>
+<span id="cb8-12"><a href="#cb8-12" aria-hidden="true" tabindex="-1"></a>covid[<span class="fu">is.na</span>(covid)] <span class="ot">=</span> <span class="dv">0</span></span>
+<span id="cb8-13"><a href="#cb8-13" aria-hidden="true" tabindex="-1"></a></span>
+<span id="cb8-14"><a href="#cb8-14" aria-hidden="true" tabindex="-1"></a><span class="co"># Check: This does remove all NAs</span></span>
+<span id="cb8-15"><a href="#cb8-15" aria-hidden="true" tabindex="-1"></a><span class="fu">colSums</span>(<span class="fu">is.na</span>(covid))</span></code><button title="Copy to Clipboard" class="code-copy-button"><i class="bi"></i></button></pre></div>
 </details>
 <div class="cell-output cell-output-stdout">
 <pre><code>    Geography Type          Geography         Group Name     Group Category 
@@ -447,6 +468,14 @@ pre > code.sourceCode > span > a:first-child::before { text-decoration: underlin
                  0 </code></pre>
 </div>
 </div>
+<p>Our exploration of NAs in the dataset revealed the following findings:</p>
+<ul>
+<li><p>NAs are isolated to the Estimated (%) column in our dataset.</p></li>
+<li><p>The pattern of NAs across various response rate confidence intervals suggests that these NAs should correspond to a response rate of 0%.</p></li>
+<li><p>This is further supported by another finding: there are 0 rows in the entire dataset showing a true 0% response rate. The lowest values that can be seen are 0.1%.</p></li>
+<li><p>Moreover, within each group and indicator containing at least one NA, the sum of response rates across the non-NA values adds up to 100%.</p></li>
+</ul>
+<p>Based on the findings above, we can safely conclude that the NAs in our dataset represent true 0% response rates. As such, we will impute NAs with 0s for our analysis purposes.</p>
 
 
 </section>

diff --git a/docs/index.html b/docs/index.html
@@ -8,7 +8,7 @@
 
 <meta name="author" content="Min Aung (mta2151)">
 <meta name="author" content="Karl Garcia-Meza (krg2150)">
-<meta name="dcterms.date" content="2023-11-29">
+<meta name="dcterms.date" content="2023-11-30">
 
 <title>Covid-19 Vaccine Hesitance Analysis</title>
 <style>
@@ -171,7 +171,7 @@ ul.task-list li input[type="checkbox"] {
     <div>
     <div class="quarto-title-meta-heading">Published</div>
     <div class="quarto-title-meta-contents">
-      <p class="date">November 29, 2023</p>
+      <p class="date">November 30, 2023</p>
     </div>
   </div>
   
